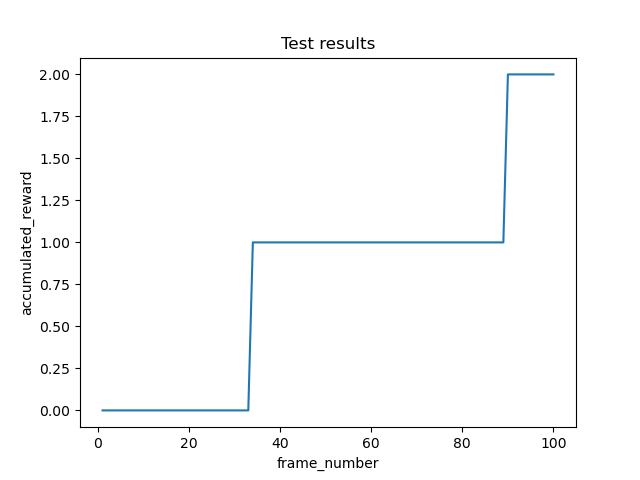
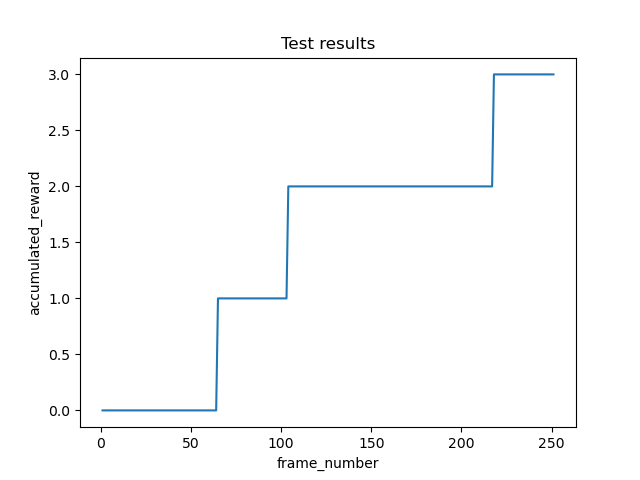
Added some models.

diff --git a/src/deep_q_network.py b/src/deep_q_network.py
@@ -14,7 +14,7 @@ from gym.wrappers import FrameStack
 from os import path, getcwd
 
 # ============================ Switchable parameters ==========================
-run_as_ddqn = False  # switch parameter to perform dqn or ddqn learning.
+run_as_ddqn = True  # switch parameter to perform dqn or ddqn learning.
 multi_step_learning = True  # switch parameter to perform single step or multi step learning
 num_multi_step_learning = 3  # number of multi-learning steps used to compute loss
 
@@ -103,6 +103,110 @@ class ExperienceReplayMemory(object):
         self.multi_step_queue.append(reward_tensor)
 
         return state_tensor, next_state, action_tensor, reward_tensor, done_tensor, self.multi_step_queue
+
+
+class DeepQNet8(nn.Module):
+    def __init__(self, h, w, image_stack, num_actions):
+        super().__init__()
+
+        num_output_filters = 4
+
+        self.conv_net = nn.Sequential(OrderedDict([
+            ('conv2d_1',
+             nn.Conv2d(image_stack, num_output_filters, kernel_size=(2, 2), stride=(1, 1), padding='same', padding_mode='zeros')),
+            ('relu_1', nn.ReLU()),
+            ('max2d_pooling_1', nn.MaxPool2d(kernel_size=(2, 2), stride=(7, 7))),
+            ('dropout_1', nn.Dropout(np.random.normal(0.2, 0.05))),
+
+            ('flatten', nn.Flatten())
+        ]))
+
+        num_hidden = 16
+
+        self.dense_net = nn.Sequential(OrderedDict([
+            ('dense_1', nn.Linear(int(num_output_filters * (h / 7) * (w / 7)), num_actions)),
+            ('dropout_1', nn.Dropout(0.5)),
+        ]))
+
+    def forward(self, x):
+        return self.dense_net(self.conv_net(x))
+
+
+class DeepQNet7(nn.Module):
+    def __init__(self, h, w, image_stack, num_actions):
+        super().__init__()
+
+        num_output_filters = 16
+
+        self.conv_net = nn.Sequential(OrderedDict([
+            ('conv2d_1',
+             nn.Conv2d(image_stack, 4, kernel_size=(6, 6), stride=(1, 1), padding='same', padding_mode='zeros')),
+            ('relu_1', nn.ReLU()),
+            ('max2d_pooling_1', nn.MaxPool2d(kernel_size=(2, 2), stride=(4, 4))),
+            ('dropout_1', nn.Dropout(np.random.normal(0.2, 0.05))),
+
+
+            ('conv2d_3', nn.Conv2d(4, num_output_filters, kernel_size=(3, 3), stride=(1, 1), padding='same',
+                                   padding_mode='zeros')),
+            ('relu_3', nn.ReLU()),
+            ('max2d_pooling_3', nn.MaxPool2d(kernel_size=(3, 3), stride=(3, 3))),
+            ('dropout_3', nn.Dropout(np.random.normal(0.2, 0.05))),
+
+            ('flatten', nn.Flatten())
+        ]))
+
+        num_hidden = 16
+
+        self.dense_net = nn.Sequential(OrderedDict([
+            ('dense_1', nn.Linear(int(num_output_filters * (h / 2**2 / 3) * (w / 2**2 / 3)), num_hidden)),
+            ('dropout_1', nn.Dropout(0.5)),
+            ('dense_2', nn.Linear(num_hidden, num_actions)),
+            ('dropout_1', nn.Dropout(0.5))
+        ]))
+
+    def forward(self, x):
+        return self.dense_net(self.conv_net(x))
+
+
+class DeepQNet6(nn.Module):
+    def __init__(self, h, w, image_stack, num_actions):
+        super().__init__()
+
+        num_output_filters = 16
+
+        self.conv_net = nn.Sequential(OrderedDict([
+            ('conv2d_1',
+             nn.Conv2d(image_stack, 4, kernel_size=(3, 3), stride=(1, 1), padding='same', padding_mode='zeros')),
+            ('relu_1', nn.ReLU()),
+            ('max2d_pooling_1', nn.MaxPool2d(kernel_size=(2, 2), stride=(2, 2))),
+            ('dropout_1', nn.Dropout(np.random.normal(0.2, 0.05))),
+
+            ('conv2d_2', nn.Conv2d(4, 8, kernel_size=(3, 3), stride=(1, 1), padding='same',
+                                   padding_mode='zeros')),
+            ('relu_2', nn.ReLU()),
+            ('max2d_pooling_2', nn.MaxPool2d(kernel_size=(2, 2), stride=(2, 2))),
+            ('dropout_2', nn.Dropout(np.random.normal(0.2, 0.05))),
+
+            ('conv2d_3', nn.Conv2d(8, num_output_filters, kernel_size=(3, 3), stride=(1, 1), padding='same',
+                                   padding_mode='zeros')),
+            ('relu_3', nn.ReLU()),
+            ('max2d_pooling_3', nn.MaxPool2d(kernel_size=(3, 3), stride=(3, 3))),
+            ('dropout_3', nn.Dropout(np.random.normal(0.2, 0.05))),
+
+            ('flatten', nn.Flatten())
+        ]))
+
+        num_hidden = 32
+
+        self.dense_net = nn.Sequential(OrderedDict([
+            ('dense_1', nn.Linear(int(num_output_filters * (h / 2**2 / 3) * (w / 2**2 / 3)), num_hidden)),
+            ('dropout_1', nn.Dropout(0.5)),
+            ('dense_2', nn.Linear(num_hidden, num_actions)),
+            ('dropout_1', nn.Dropout(0.5))
+        ]))
+
+    def forward(self, x):
+        return self.dense_net(self.conv_net(x))
 
 
 # This model is using a batch normalization layer.
@@ -310,22 +414,22 @@ alpha = 0.00025
 gamma = 0.99
 eps, eps_decay = 1.0, 0.999
 # Original values:
-max_train_episodes = 1000000
-max_test_episodes = 10
-max_train_frames = 10000
-burn_in_phase = 50000
+# max_train_episodes = 1000000
+# max_test_episodes = 10
+# max_train_frames = 10000
+# burn_in_phase = 50000
 
 # Test values:
-# max_train_episodes = 200  # TODO: change back to original value 1000000
-# max_test_episodes = 5   # TODO: change back to original value 10
-# max_train_frames = 100  # TODO: change back to original 10000
-# burn_in_phase = 50000  # TODO: change back to original value 50000
+max_train_episodes = 250  # TODO: change back to original value 1000000
+max_test_episodes = 10   # TODO: change back to original value 10
+max_train_frames = 10000  # TODO: change back to original 10000
+burn_in_phase = 50000  # TODO: change back to original value 50000
 
 sync_target = 10000
 curr_step = 0
 buffer = ExperienceReplayMemory(50000)  # TODO: set to original value = 50000
 
-online_dqn = DeepQNet3(h, w, image_stack, num_actions)
+online_dqn = DeepQNet6(h, w, image_stack, num_actions)
 target_dqn = copy.deepcopy(online_dqn)
 for param in target_dqn.conv_net.parameters():
     param.requires_grad = False
@@ -472,7 +576,7 @@ def __test():
         update_metrics(test_metrics, episode_metrics)
         print_metrics(it + 1, test_metrics, is_training=False)
         filepath = path.join(getcwd(), f"output/test_plot_iteration_{it + 1}")
-        plot_test_episode(filepath, np.arange(1, max_train_frames + 1), accumulated_rewards)
+        plot_test_episode(filepath, np.arange(1, len(accumulated_rewards) + 1), accumulated_rewards)
 
 
 if __name__ == '__main__':
